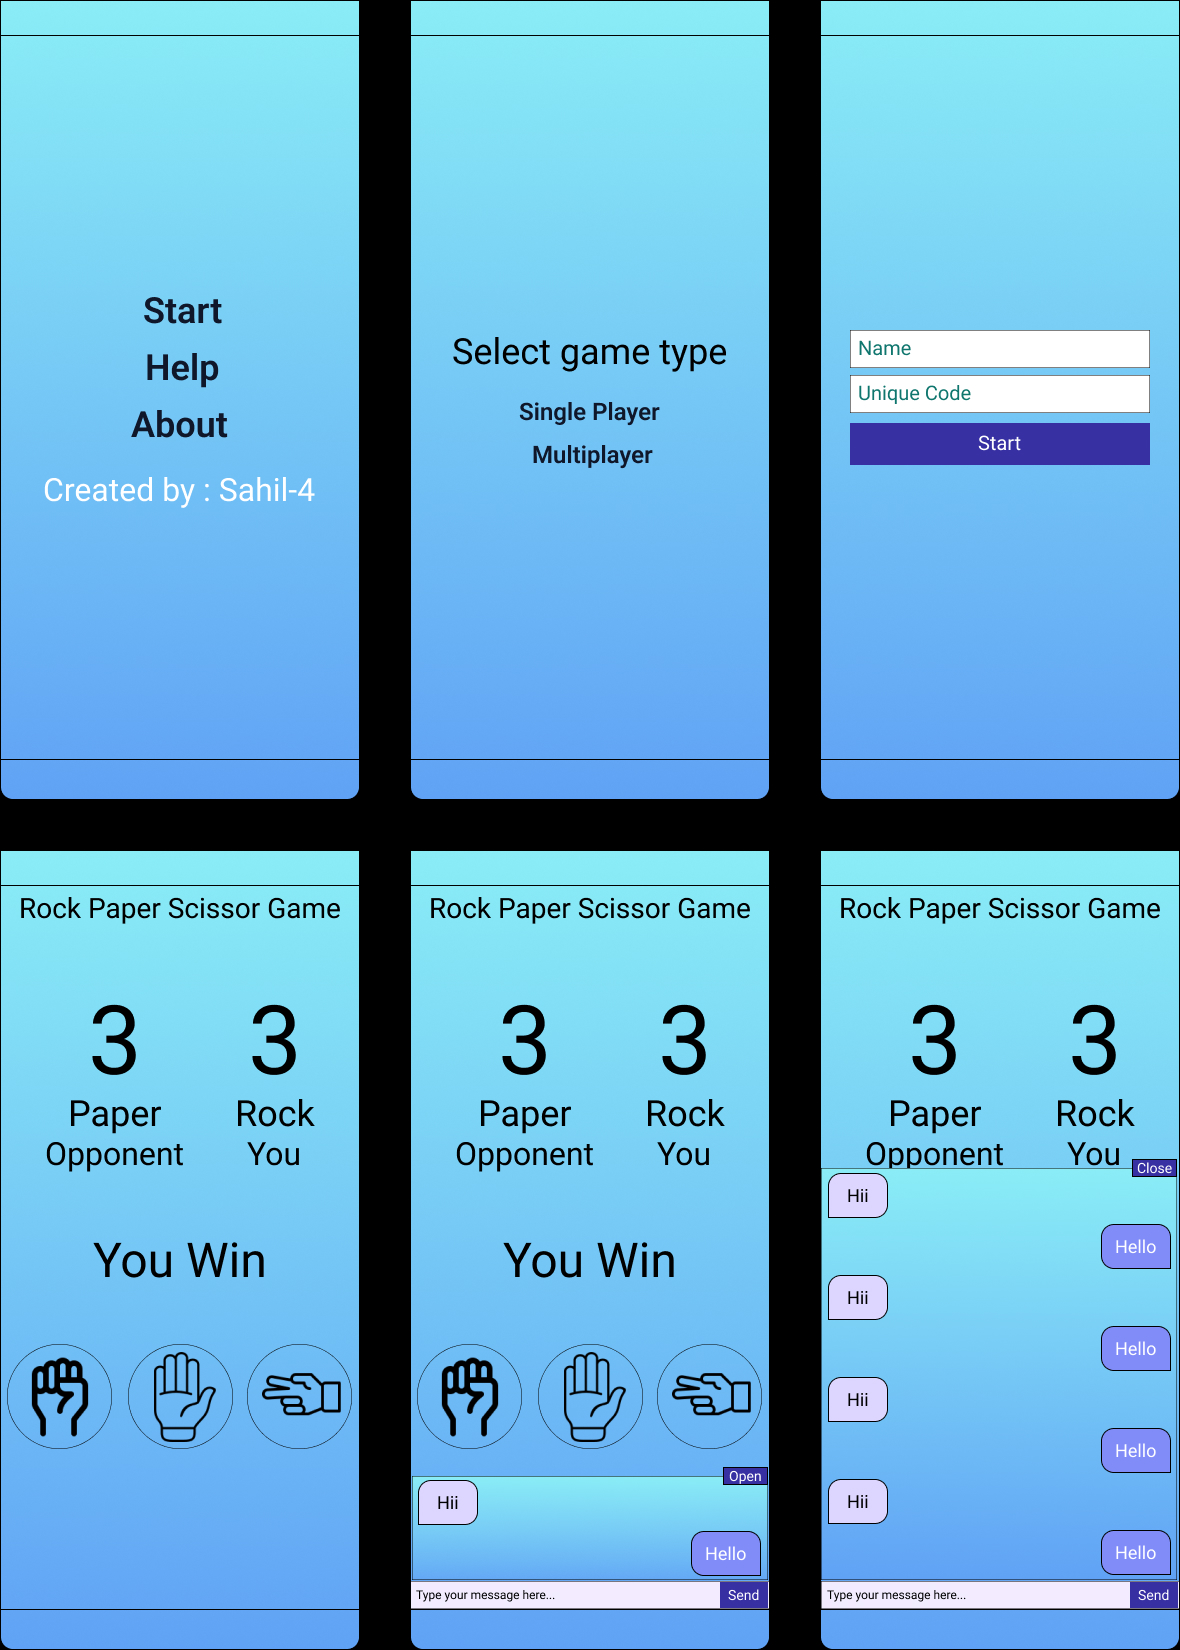
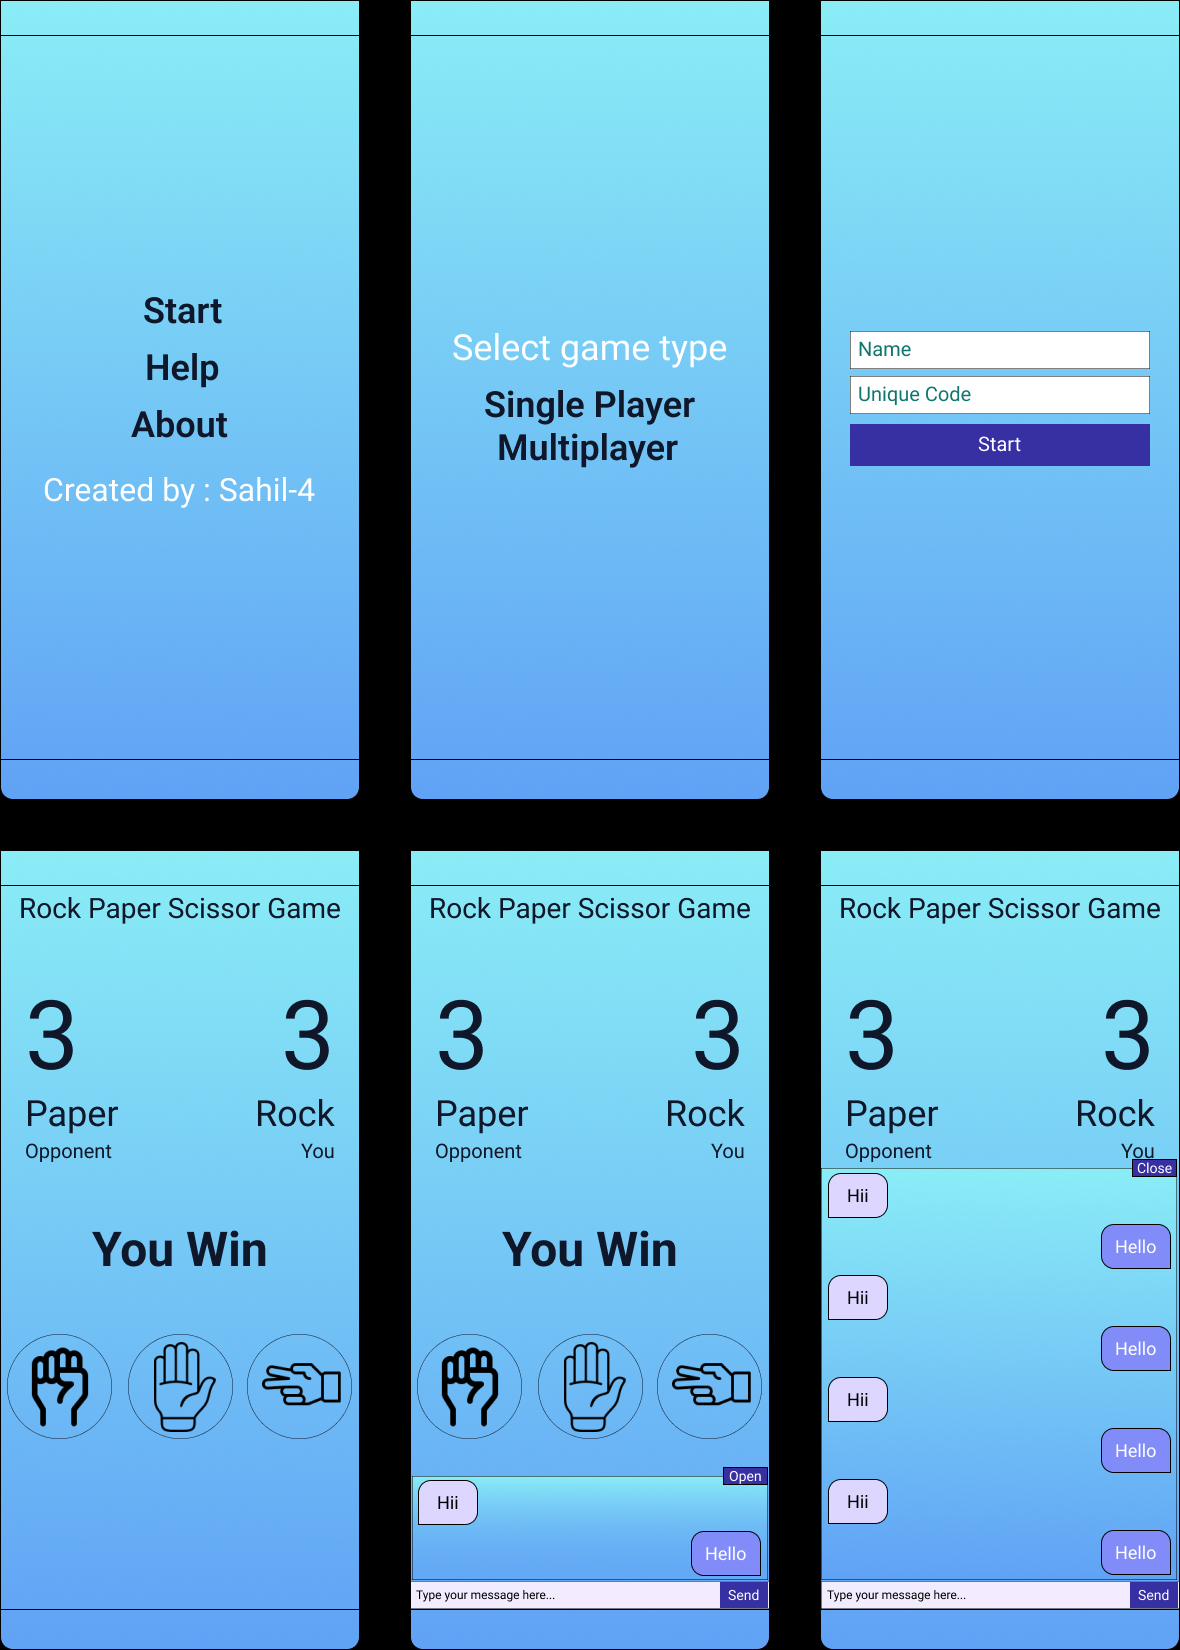
updated game page ui

diff --git a/src/Components/Scoreboard.js b/src/Components/Scoreboard.js
@@ -1,25 +1,19 @@
-import React, { useContext } from "react";
-import GameContext from "../Context/Game/GameContext";
+import React from "react";
 
 const Scoreboard = () => {
-  const { Player, Points, Result, Choices } = useContext(GameContext);
-
   return (
-    <div className="scoreboard W100">
-      <div className="boards-container W100">
-        <div className="you board">
-          <h1 className="points">{Points.player}</h1>
-          <h1 className="choice">{Choices.player}</h1>
-          <h1 className="player">{Player.name || "You"}</h1>
-        </div>
-        <div className="opponent board">
-          <h1 className="points">{Points.opponent}</h1>
-          <h1 className="choice">{Choices.opponent}</h1>
-          <h1 className="player">{Player.opponent || "Computer"}</h1>
-        </div>
+    <div className="scoreboard">
+      <div className="points">
+        <span>0</span>
+        <span>0</span>
       </div>
-      <div className="result W100">
-        <h1>{Result}</h1>
+      <div className="choices">
+        <span>Rock</span>
+        <span>Rock</span>
+      </div>
+      <div className="names">
+        <span>You</span>
+        <span>Opponent</span>
       </div>
     </div>
   );

diff --git a/src/Components/Optionsbox.js b/src/Components/Optionsbox.js
@@ -5,24 +5,30 @@ import scissorImage from "./Assets/scissor.png";
 
 const Optionsbox = (props) => {
   return (
-    <div className="choices W100">
+    <div className="options W100">
       <img
         src={rockImage}
+        title="rock"
         alt="Option Rock"
-        className="choice-image"
-        onClick={() => props.onClickFunction(0)}
+        onClick={() => {
+          console.log(1);
+        }}
       />
       <img
         src={paperImage}
+        title="paper"
         alt="Option Paper"
-        className="choice-image"
-        onClick={() => props.onClickFunction(1)}
+        onClick={() => {
+          console.log(2);
+        }}
       />
       <img
         src={scissorImage}
+        title="scissor"
         alt="Option Scissor"
-        className="choice-image"
-        onClick={() => props.onClickFunction(2)}
+        onClick={() => {
+          console.log(3);
+        }}
       />
     </div>
   );

diff --git a/src/App.css b/src/App.css
@@ -51,3 +51,56 @@
 .index .login form button:hover {
     background-color: var(--blue_light);
 }
+
+.game_main {
+    height: 100%;
+    font-size: 2rem;
+    text-align: center;
+    color: var(--black);
+}
+
+.game_main .title {
+    font-size: 1.8rem;
+    font-weight: bold;
+    margin: 18px 0;
+}
+
+.game_main .scoreboard {
+    margin: 15px 0;
+    padding: 0 12px;
+}
+
+.game_main .scoreboard div span {
+    margin: 3px 0;
+}
+
+.game_main .scoreboard div {
+    display: flex;
+    flex-direction: row;
+    justify-content: space-between;
+}
+
+.game_main .scoreboard .points {
+    font-size: 3.5rem;
+    font-weight: bold;
+}
+
+.game_main .scoreboard .names {
+    font-size: 1rem;
+}
+
+.game_main .result {
+    font-size: 3rem;
+    margin: 15px 0;
+}
+
+.game_main .options {
+    display: flex;
+    justify-content: space-evenly;
+    margin-top: 21px;
+}
+
+.game_main .options img {
+    margin: 5px;
+    padding: 3px;
+}

diff --git a/src/Pages/Game.js b/src/Pages/Game.js
@@ -1,12 +1,23 @@
 import React from "react";
 import { useParams } from "react-router";
+import Gametitle from "../Components/Gametitle";
+import Scoreboard from "../Components/Scoreboard";
+import Result from "../Components/Result";
+import Optionsbox from "../Components/Optionsbox";
 
 const Game = () => {
   const { type } = useParams();
 
   console.log(type);
 
-  return <div>Game</div>;
+  return (
+    <div className="game_main">
+      <Gametitle />
+      <Scoreboard />
+      <Result />
+      <Optionsbox />
+    </div>
+  );
 };
 
 export default Game;

diff --git a/public/index.html b/public/index.html
@@ -8,7 +8,7 @@
     <meta name="description" content="Rock paper scissor game" />
     <link rel="apple-touch-icon" href="%PUBLIC_URL%/apple-touch-icon.png" />
     <link rel="manifest" href="%PUBLIC_URL%/manifest.json" />
-    <link rel="stylesheet" href="styles.css" />
+    <link rel="stylesheet" href="/styles.css" />
     <title>Rock paper scissor Game</title>
   </head>
   <body>

diff --git a/src/Components/Gametitle.js b/src/Components/Gametitle.js
@@ -1,0 +1,7 @@
+import React from "react";
+
+const Gametitle = () => {
+  return <div className="title">Rock Paper Scissors</div>;
+};
+
+export default Gametitle;

diff --git a/src/Components/Result.js b/src/Components/Result.js
@@ -1,0 +1,7 @@
+import React from "react";
+
+const Result = () => {
+  return <div className="result">Draw</div>;
+};
+
+export default Result;
